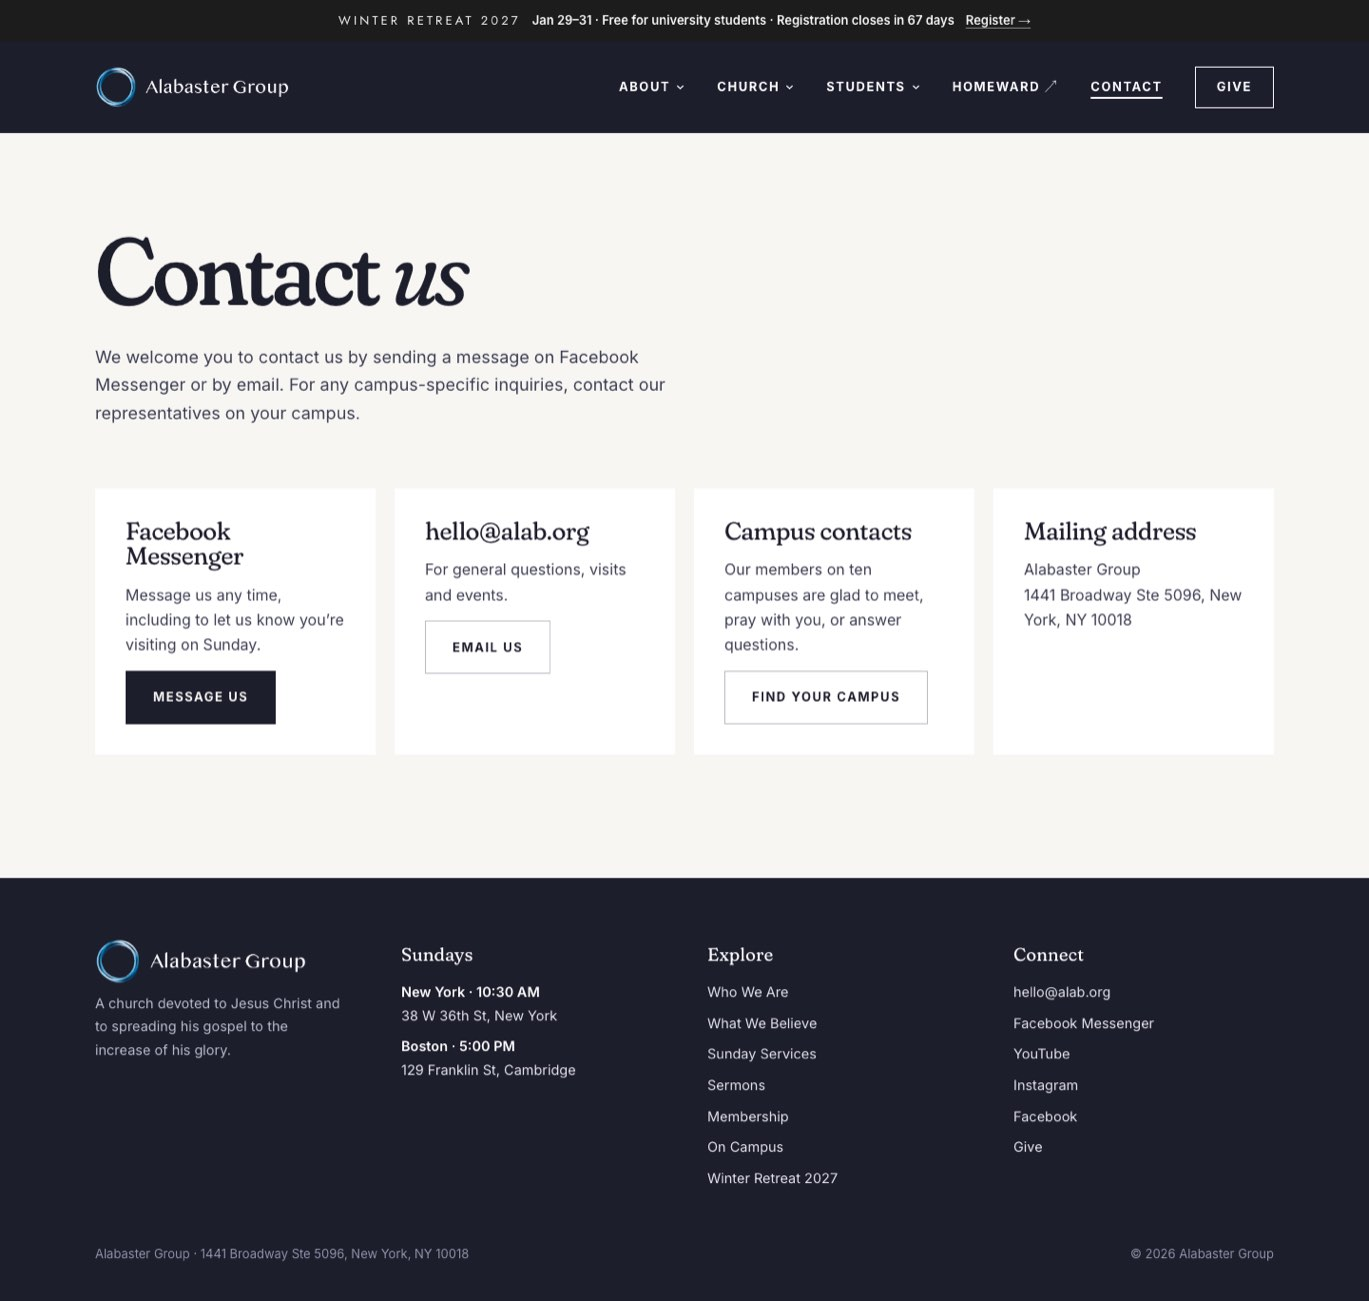
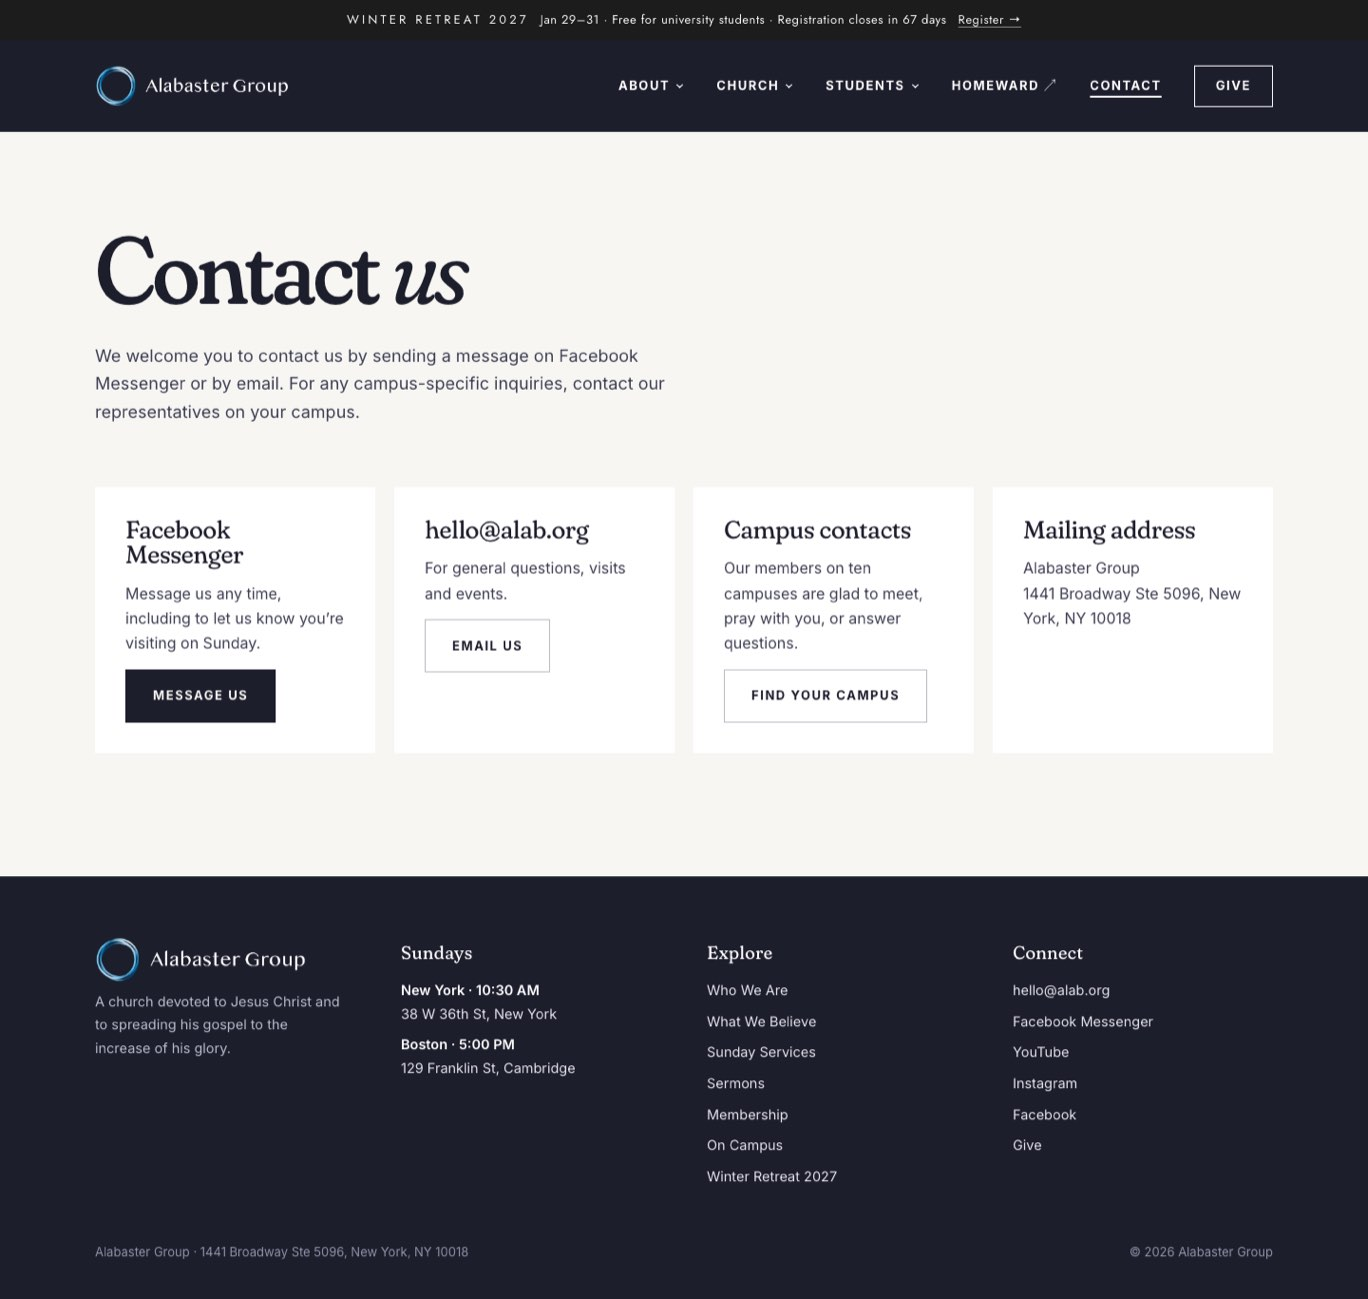
Winter Retreat: full-bleed poster and a charcoal retreat page
The poster photo now runs edge to edge with the type on its dark left side,
the whole /wr-27 page (header, sections, footer) uses the poster's charcoal
and Jost instead of navy, cream and Fraunces, and the stylesheet is
stamped with a content hash so browsers stop showing a cached Fall look.

diff --git a/public/css/site.css b/public/css/site.css
@@ -760,22 +760,41 @@ h2 em, h3 em { font-style: normal; }
   .hero__shade, .hero--page .hero__shade { background: linear-gradient(180deg, rgba(29, 30, 44, 0.45) 0%, rgba(29, 30, 44, 0.2) 28%, rgba(29, 30, 44, 0.62) 55%, rgba(29, 30, 44, 0.55) 78%, rgba(29, 30, 44, 0) 100%); }
 }
 
-/* ---------- Winter Retreat 2027: matches the poster (charcoal concrete, prism light, Jost Light caps) ----------
+/* The full-bleed poster photo only exists for the winter theme */
+.retreat-stage__bg { display: none; }
+
+/* ---------- Winter Retreat 2027: the poster, carried through the page ----------
+   Charcoal concrete, one band of prism light, Jost Light caps. No orange, no navy, no serif.
    Switched on by site.retreat.theme = "winter"; the Fall flyer styles above stay for next autumn. */
 [data-retreat="winter"] {
   --retreat-bg: #1B1C1C;
+  --retreat-raised: #242525;
   --retreat-ink: #F2F1EE;
   --retreat-muted: rgba(242, 241, 238, 0.66);
+  --retreat-line: rgba(242, 241, 238, 0.16);
   --retreat-type: 'Jost', 'Futura', 'Inter', sans-serif;
 }
-[data-retreat="winter"] .dark:has(> .retreat),
-[data-retreat="winter"] section.dark:has(.retreat),
-[data-retreat="winter"] #schedule.dark { background: var(--retreat-bg); }
+
+/* Poster stage: the photo runs edge to edge, type sits on the dark concrete to its left */
+[data-retreat="winter"] .dark:has(> .retreat-stage),
+[data-retreat="winter"] section.dark:has(.retreat-stage) { background: var(--retreat-bg); }
+[data-retreat="winter"] .retreat-stage { position: relative; isolation: isolate; overflow: hidden; color: var(--retreat-ink); font-family: var(--retreat-type); }
+[data-retreat="winter"] .retreat-stage__bg { display: block; position: absolute; inset: 0; z-index: -1; }
+[data-retreat="winter"] .retreat-stage__bg img { width: 100%; height: 100%; object-fit: cover; object-position: 68% 50%; }
+[data-retreat="winter"] .retreat-stage__bg::after {
+  content: ''; position: absolute; inset: 0;
+  background: linear-gradient(90deg, rgba(27, 28, 28, 0.82) 0%, rgba(27, 28, 28, 0.55) 32%, rgba(27, 28, 28, 0) 58%);
+}
+[data-retreat="winter"] .retreat-stage .retreat {
+  grid-template-columns: minmax(0, 560px); align-content: center;
+  min-height: clamp(680px, 56.25vw, 940px); padding-block: 96px;
+}
+[data-retreat="winter"] .retreat-stage .bracketed { display: none; }
 
 [data-retreat="winter"] .retreat__lockup { gap: 26px; }
 [data-retreat="winter"] .retreat__title {
   font-family: var(--retreat-type); font-weight: 300; text-transform: uppercase; color: var(--retreat-ink);
-  font-size: clamp(52px, 6.6vw, 104px); line-height: 1.1; letter-spacing: 0.14em; margin-left: -0.01em;
+  font-size: clamp(52px, 6.4vw, 100px); line-height: 1.1; letter-spacing: 0.14em; margin-left: -0.01em;
 }
 [data-retreat="winter"] .retreat__when {
   flex-direction: column; align-items: flex-start; text-align: left; gap: 6px; border-top: 0; position: relative; padding-top: 30px;
@@ -785,26 +804,58 @@ h2 em, h3 em { font-style: normal; }
 }
 [data-retreat="winter"] .retreat__when span {
   font-family: var(--retreat-type); font-weight: 300; font-size: clamp(18px, 1.6vw, 22px);
-  letter-spacing: 0.24em; line-height: 1.35; color: var(--retreat-ink);
+  letter-spacing: 0.24em; line-height: 1.35; color: var(--retreat-ink); padding-left: 0; border-left: 0;
 }
-[data-retreat="winter"] .retreat__deadline { color: var(--retreat-muted); font-weight: 500; }
+[data-retreat="winter"] .retreat__deadline { font-family: var(--retreat-type); color: var(--retreat-muted); font-weight: 400; letter-spacing: 0.04em; }
+[data-retreat="winter"] .retreat__tagline { font-family: var(--retreat-type); font-style: normal; font-weight: 300; font-size: 24px; letter-spacing: 0.02em; }
 [data-retreat="winter"] .retreat .orange,
 [data-retreat="winter"] .retreat-plug .orange { color: inherit; }
-[data-retreat="winter"] .retreat .mono-list .orange { color: var(--retreat-muted); }
+[data-retreat="winter"] .retreat .mono-list,
+[data-retreat="winter"] .retreat .schools { font-family: var(--retreat-type); font-weight: 400; letter-spacing: 0.22em; color: var(--retreat-ink); }
+[data-retreat="winter"] .retreat .mono-list .orange,
+[data-retreat="winter"] .retreat .schools { color: var(--retreat-muted); }
+[data-retreat="winter"] .retreat .schools { border-top-color: var(--retreat-line); letter-spacing: 0.16em; }
+
+/* Buttons: off-white on charcoal, square like the poster's rule */
+[data-retreat="winter"] .retreat .btn,
+[data-retreat="winter"] .retreat-page .btn,
+[data-retreat="winter"] .retreat-plug .btn { font-family: var(--retreat-type); font-weight: 400; letter-spacing: 0.2em; }
 [data-retreat="winter"] .retreat .btn--orange,
-[data-retreat="winter"] #register .btn--orange { background: var(--retreat-ink); color: var(--retreat-bg); }
+[data-retreat="winter"] .retreat-page .btn--orange,
+[data-retreat="winter"] .retreat-plug .btn--orange { background: var(--retreat-ink); color: var(--retreat-bg); }
 [data-retreat="winter"] .retreat .btn--orange:hover,
-[data-retreat="winter"] #register .btn--orange:hover { background: #FFFFFF; }
+[data-retreat="winter"] .retreat-page .btn--orange:hover { background: #FFFFFF; }
+[data-retreat="winter"] .retreat .btn--outline-light { border-color: rgba(242, 241, 238, 0.7); color: var(--retreat-ink); }
 
-/* The poster photo runs clean, no orange corner brackets */
-[data-retreat="winter"] .retreat .bracketed { padding: 0; }
-[data-retreat="winter"] .retreat .bracketed::before,
-[data-retreat="winter"] .retreat .bracketed::after { content: none; }
-
-/* Schedule on the retreat page */
-[data-retreat="winter"] .schedule__day h3 {
-  font-family: var(--retreat-type); font-weight: 300; font-size: 30px; letter-spacing: 0.18em; color: var(--retreat-ink);
+/* The whole retreat page lives on the poster's charcoal */
+[data-retreat="winter"] body:has(.retreat-page),
+[data-retreat="winter"] body:has(.retreat-page) .site-header--solid,
+[data-retreat="winter"] body:has(.retreat-page) .site-footer { background: var(--retreat-bg); }
+[data-retreat="winter"] .retreat-page {
+  --ink: var(--retreat-ink); --muted: var(--retreat-muted); --label: var(--retreat-muted);
+  --line: var(--retreat-line); --tone: var(--retreat-raised); --on-dark-muted: var(--retreat-muted);
+  background: var(--retreat-bg); color: var(--retreat-ink); font-family: var(--retreat-type); font-weight: 400;
 }
+[data-retreat="winter"] .retreat-page .dark { background: transparent; }
+[data-retreat="winter"] .retreat-page .prose { color: var(--retreat-ink); font-size: 18px; }
+[data-retreat="winter"] .retreat-page h2:not(.retreat__title) {
+  font-family: var(--retreat-type); font-weight: 300; text-transform: uppercase;
+  font-size: clamp(28px, 3.3vw, 46px); line-height: 1.25; letter-spacing: 0.12em;
+}
+[data-retreat="winter"] .retreat-page .h2-wide { max-width: 28ch; }
+[data-retreat="winter"] .retreat-page h3 {
+  font-family: var(--retreat-type); font-weight: 400; text-transform: uppercase; font-size: 18px; letter-spacing: 0.2em; line-height: 1.4;
+}
+[data-retreat="winter"] .retreat-page .included figcaption h3 { margin-block: 6px 8px; }
+[data-retreat="winter"] .retreat-page .give-card { background: var(--retreat-raised); }
+[data-retreat="winter"] .retreat-page .give-card p,
+[data-retreat="winter"] .retreat-page .give-card ol { color: var(--retreat-muted); }
+[data-retreat="winter"] .retreat-page .faq summary { font-family: var(--retreat-type); font-weight: 400; font-size: 20px; letter-spacing: 0.01em; }
+[data-retreat="winter"] .retreat-page .testimony blockquote { font-family: var(--retreat-type); font-weight: 300; font-size: 20px; line-height: 1.55; }
+[data-retreat="winter"] .retreat-page .testimony cite { font-weight: 400; letter-spacing: 0.08em; color: var(--retreat-muted); }
+[data-retreat="winter"] .retreat-page .schedule__day h3 { font-weight: 300; font-size: 30px; letter-spacing: 0.18em; color: var(--retreat-ink); }
+[data-retreat="winter"] .retreat-page .schedule__day .part { color: var(--retreat-muted); font-weight: 400; letter-spacing: 0.06em; }
+[data-retreat="winter"] .retreat-page a:not(.btn) { text-decoration-color: rgba(242, 241, 238, 0.45); }
 
 /* Announcement bar */
 [data-retreat="winter"] .announce { background: var(--retreat-bg); }
@@ -824,7 +875,16 @@ h2 em, h3 em { font-style: normal; }
   font-family: var(--retreat-type); font-weight: 300; font-size: 20px; letter-spacing: 0.2em; color: var(--retreat-ink);
 }
 [data-retreat="winter"] .retreat-plug__meta .mono[style] { color: var(--retreat-muted) !important; }
-[data-retreat="winter"] .retreat-plug .btn--orange { background: var(--retreat-ink); color: var(--retreat-bg); }
+
 @media (max-width: 700px) {
+  /* Phone: the tall crop of the photo on top, type continuing below it on the charcoal */
+  [data-retreat="winter"] .retreat-stage__bg { position: relative; height: 118vw; }
+  [data-retreat="winter"] .retreat-stage__bg img { object-position: 50% 40%; }
+  [data-retreat="winter"] .retreat-stage__bg::after { background: linear-gradient(180deg, rgba(27, 28, 28, 0) 45%, var(--retreat-bg) 100%); }
+  [data-retreat="winter"] .retreat-stage .retreat { min-height: 0; margin-top: -34vw; padding-block: 0 72px; }
+  [data-retreat="winter"] .retreat__title { font-size: 46px; }
+  [data-retreat="winter"] .retreat__tagline { font-size: 21px; }
   [data-retreat="winter"] .retreat-plug__title { font-size: 36px; }
 }
+[data-retreat="winter"] .retreat-page h2 em, [data-retreat="winter"] .retreat-page h3 em { font-weight: inherit; }
+[data-retreat="winter"] .announce { font-family: var(--retreat-type); font-weight: 400; letter-spacing: 0.04em; }

diff --git a/src/pages/wr-27.html b/src/pages/wr-27.html
@@ -3,6 +3,7 @@ title: Winter Retreat 2027 · Alabaster Group
 description: Winter Retreat 2027, Jan 29–31 in Orange, CT. A free weekend of worship, teaching and ministry for university students. Transportation, housing and meals included.
 header: solid
 ---
+<div class="retreat-page">
 <section class="dark">
 {{> retreat-feature}}
 </section>
@@ -82,3 +83,4 @@ header: solid
 </div>
 <p class="muted" style="font-size: 13.5px; line-height: 1.6; margin-top: 32px; max-width: 900px;"><strong>Disclaimer of Liability:</strong> Alabaster Group arranges accommodations as a convenience to our student attendees. We cannot vouch for other registrants. By accepting our rooming arrangements, you release Alabaster Group, our vendors, our affiliates, and our partners from all liability related to your attendance and experience. Though it is common practice to provide shared housing for students, certain students may feel more comfortable purchasing their own room, and we encourage you to do so if that is the case.</p>
 </section>
+</div>

diff --git a/src/partials/retreat-feature.html b/src/partials/retreat-feature.html
@@ -1,3 +1,5 @@
+<div class="retreat-stage">
+<picture class="retreat-stage__bg" aria-hidden="true"><source media="(max-width: 700px)" srcset="/images/wr-27/poster-photo-tall.jpg"><img src="/images/wr-27/poster-photo.jpg" alt=""></picture>
 <div class="wrap retreat">
 <div class="stack" style="gap: 28px;">
 <div class="retreat__lockup">
@@ -11,4 +13,5 @@
 <div class="schools">Brown · Columbia · Cornell · Dartmouth · Harvard<br>MIT · NYU · Princeton · UPenn · Yale</div>
 </div>
 <div class="bracketed"><div class="bracketed__img"><img src="/images/wr-27/winter-retreat-light.jpg" alt="A lone figure walking through a band of prism light on a concrete floor" loading="lazy"></div></div>
+</div>
 </div>

diff --git a/build.py b/build.py
@@ -15,6 +15,7 @@ Template syntax:
   {{#if a.b}} ... {{/if}}         keep block when value is truthy
   {{#each a.b}} {{this.x}} {{/each}}
 """
+import hashlib
 import json
 import os
 import re
@@ -87,6 +88,10 @@ def main():
 
     data = {p.stem: json.loads(p.read_text()) for p in (SRC / "data").glob("*.json")}
     layout = (SRC / "layout.html").read_text()
+    # Stamp the stylesheet and script with a content hash so browsers never keep a stale copy.
+    for asset in ("css/site.css", "js/site.js"):
+        stamp = hashlib.sha1((ROOT / "public" / asset).read_bytes()).hexdigest()[:10]
+        layout = layout.replace(f'"/{asset}"', f'"/{asset}?v={stamp}"')
 
     for page in sorted((SRC / "pages").glob("*.html")):
         meta, body = parse_page(page)

diff --git a/docs/test-plan/README.md b/docs/test-plan/README.md
@@ -1,6 +1,6 @@
 # Test plan
 
-Generated 2026-11-08 10:10 by `scripts/test_plan.py` from a fresh build.
+Generated 2026-11-08 11:23 by `scripts/test_plan.py` from a fresh build.
 
 ## Automated checks
 
